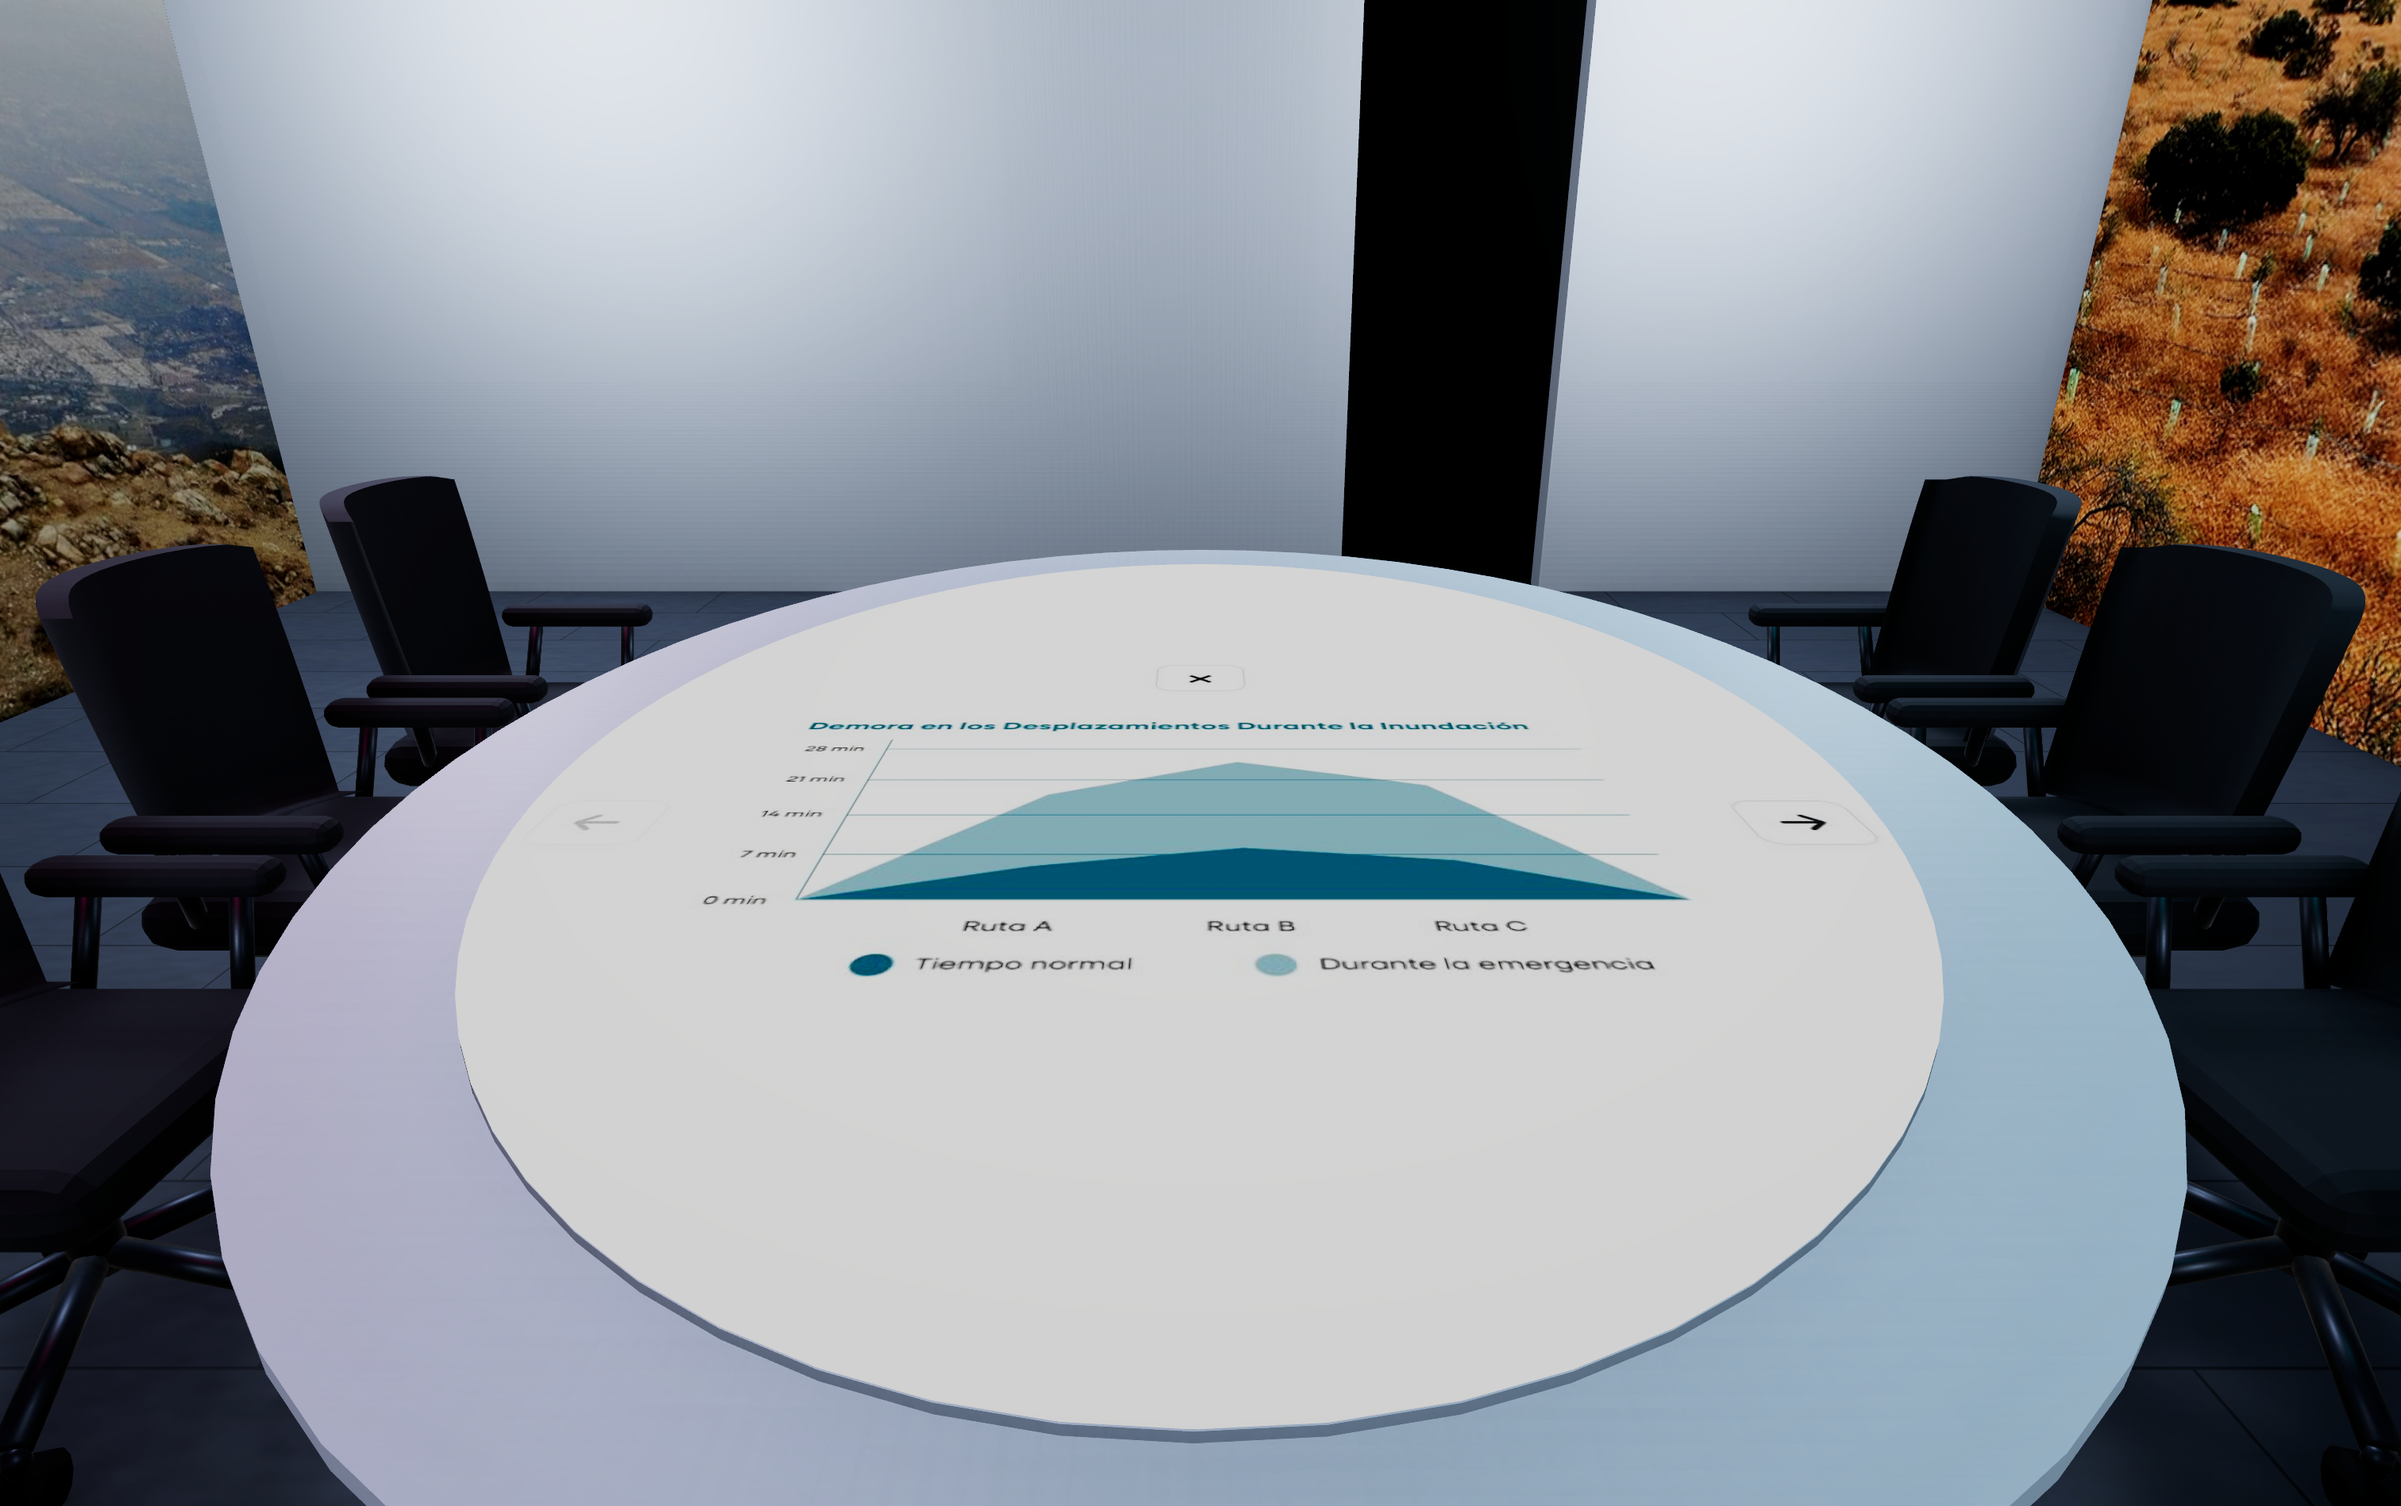
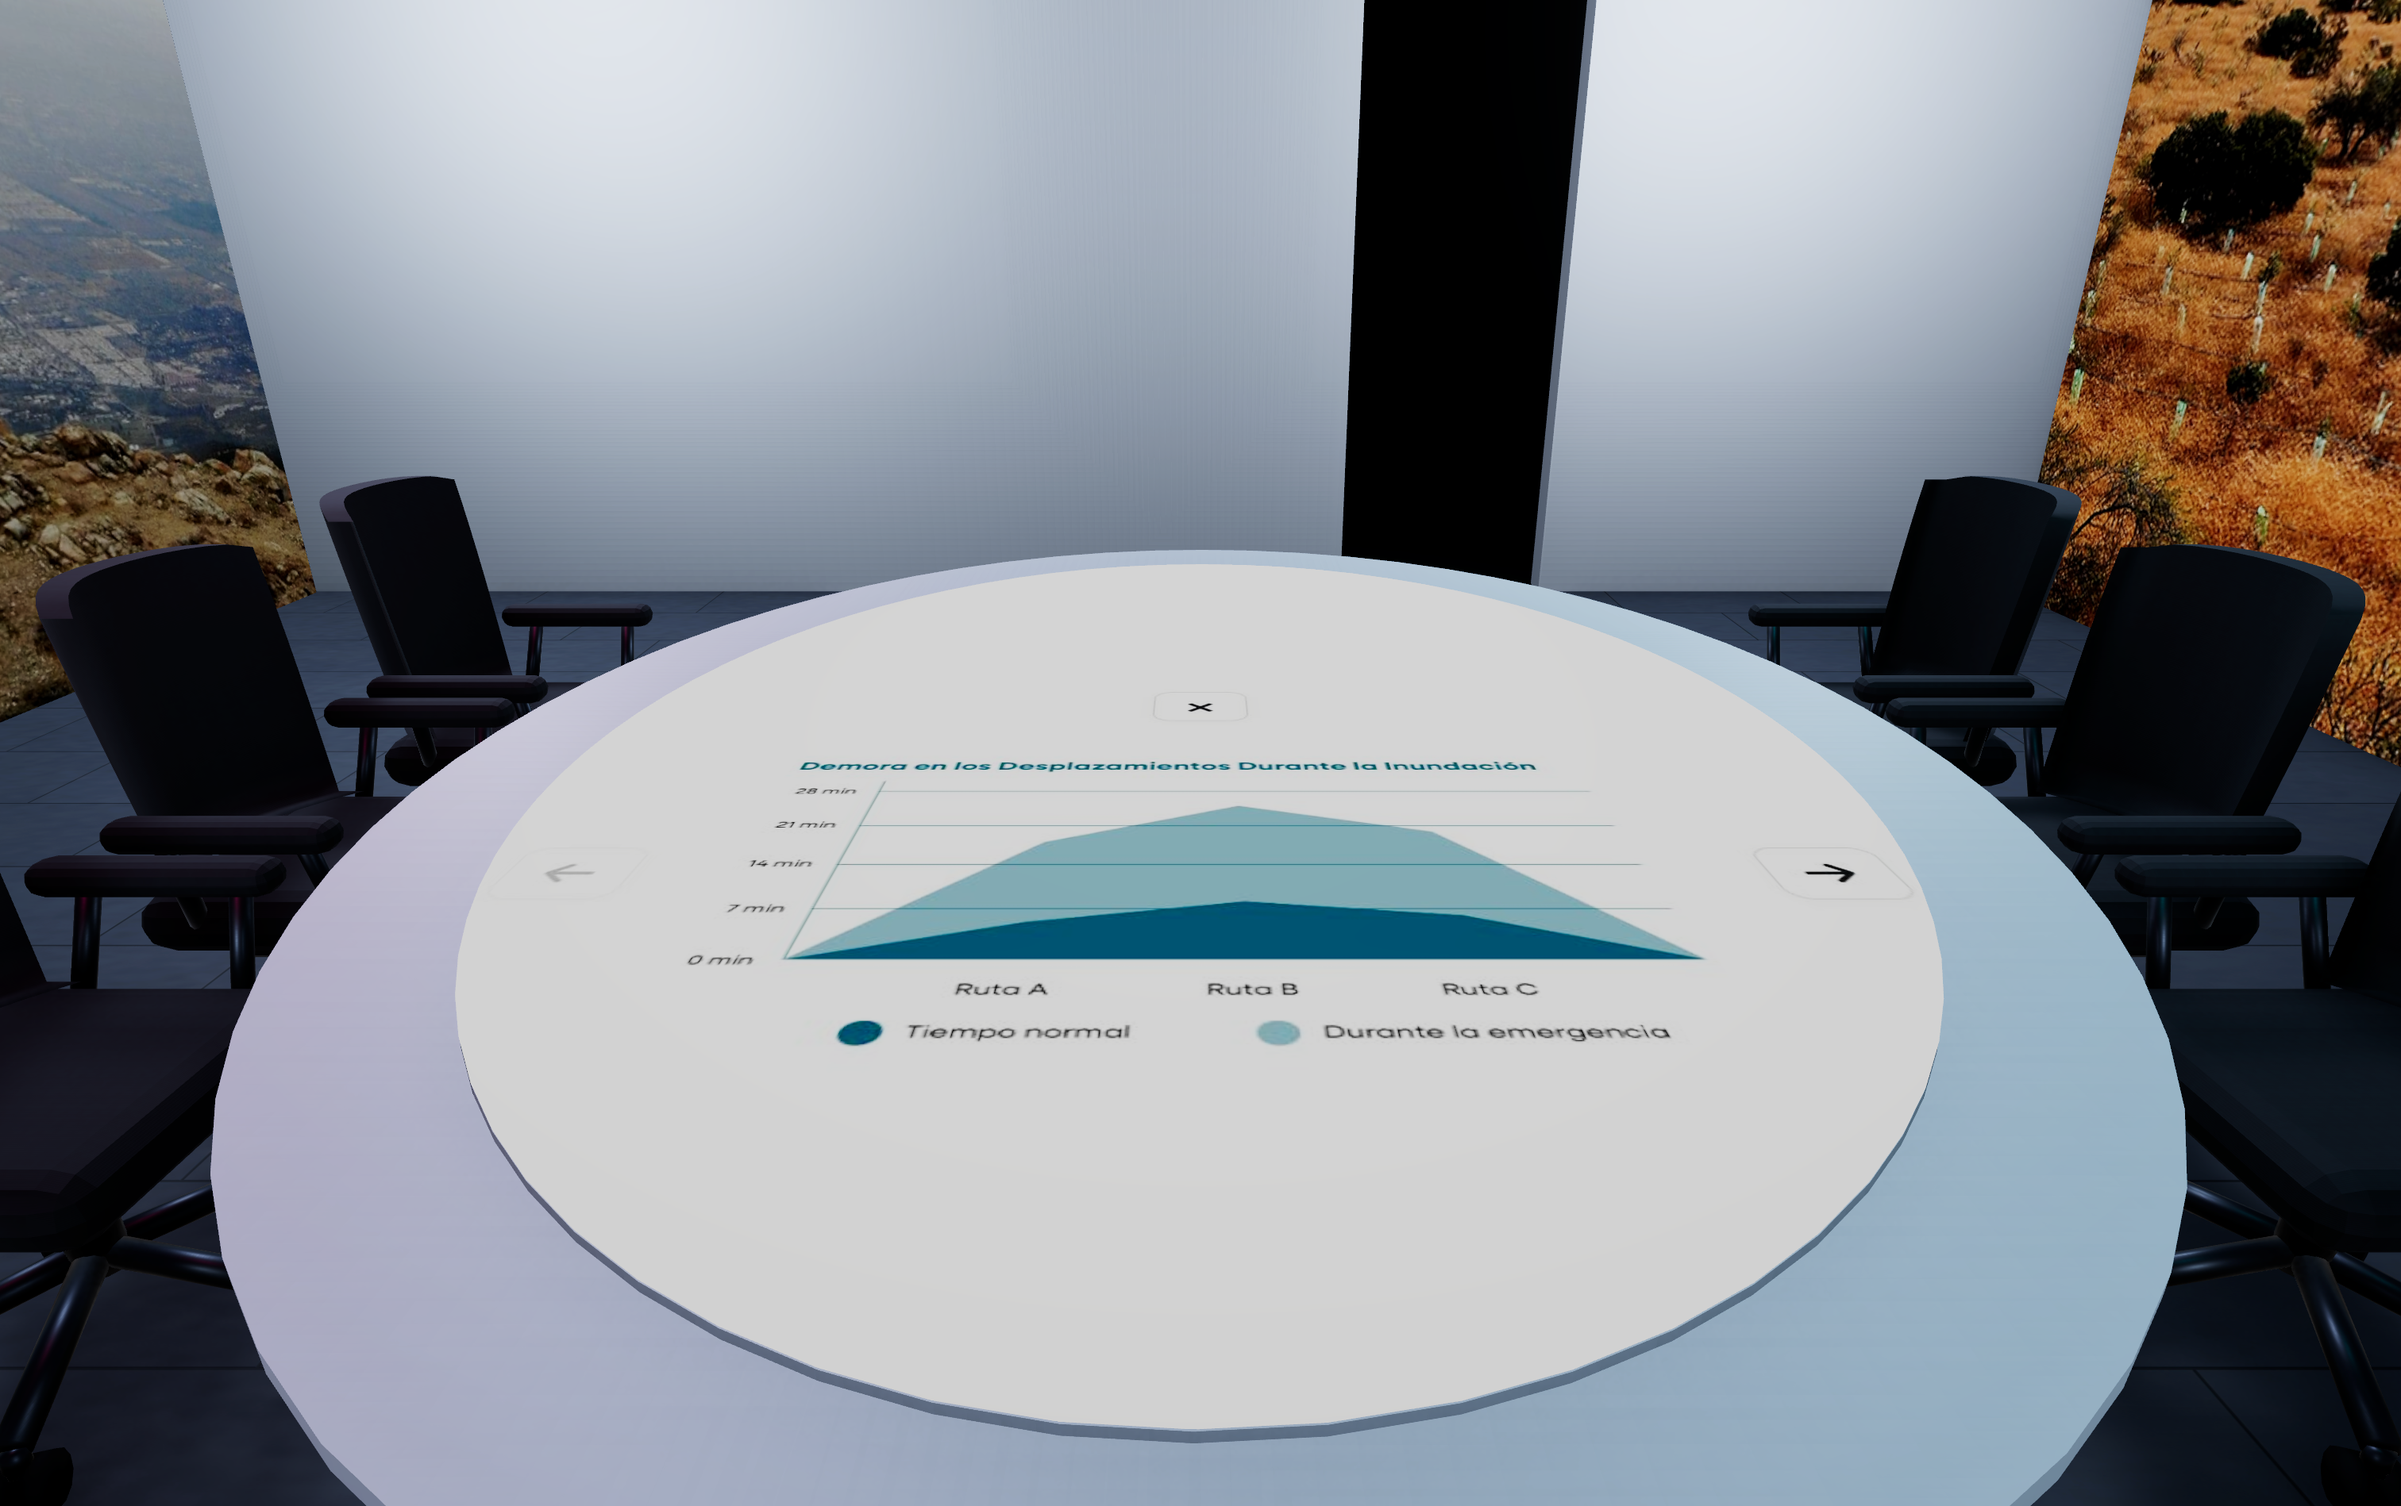
Baja la leyenda al borde cercano y aproxima los gráficos a la silla

Changed region(s): [[0.8393, 0.0, 1.0, 0.5285], [0.3108, 0.4663, 0.7149, 0.715], [0.0, 0.2176, 0.1243, 0.4663]]

diff --git a/mapaGestualMLR/src/twin-projection.css b/mapaGestualMLR/src/twin-projection.css
@@ -10,13 +10,13 @@
 .twin-projection .boundary-attribution{bottom:13%;left:16%;right:16%;text-align:center}
 
 /* Everything essential stays inside the oval table's safe central area. */
-.twin-projection .map-category-legend{left:50%;bottom:17%;width:29%;gap:3px}
+.twin-projection .map-category-legend{left:50%;bottom:4%;width:29%;gap:3px}
 .twin-projection .map-category-legend-row{font-size:9px;line-height:1.25;padding:4px 19px 4px 9px}
 /* The principal chair is beside the bottom of the captured texture. Keep the
    full page in the near half of the table, with controls outside its sides. */
-.twin-projection .content-stage{inset:40% 12% 20%}
-.twin-projection .content-control{top:60%;width:60px;height:54px;font-size:32px}
-.twin-projection #content-previous{left:6.8%}
-.twin-projection #content-next{left:93.2%}
-.twin-projection #content-close{left:50%;top:35.5%}
+.twin-projection .content-stage{inset:46% 14% 14%}
+.twin-projection .content-control{top:66%;width:60px;height:54px;font-size:32px}
+.twin-projection #content-previous{left:8.4%}
+.twin-projection #content-next{left:91.6%}
+.twin-projection #content-close{left:50%;top:41.5%}
 .twin-projection.content-open .map-tools{top:25%;right:20%}

diff --git a/digitalTwinMLR/Unity/Assets/MLR/Editor/TwinProject.cs b/digitalTwinMLR/Unity/Assets/MLR/Editor/TwinProject.cs
@@ -418,7 +418,7 @@ namespace LaReina.DigitalTwin.Editor
         {
             PlayerSettings.companyName="MLR";PlayerSettings.productName="Sala La Reina";
             PlayerSettings.macOS.cameraUsageDescription=CameraUsageDescription;
-            PlayerSettings.bundleVersion="0.9.1";PlayerSettings.Android.bundleVersionCode=8;
+            PlayerSettings.bundleVersion="0.9.2";PlayerSettings.Android.bundleVersionCode=8;
             PlayerSettings.SetApplicationIdentifier(NamedBuildTarget.Standalone,"cl.mlr.sala.lareina");
             PlayerSettings.SetApplicationIdentifier(NamedBuildTarget.Android,"cl.mlr.sala.lareina");
             PlayerSettings.defaultScreenWidth=1600;PlayerSettings.defaultScreenHeight=900;

diff --git a/digitalTwinMLR/README.md b/digitalTwinMLR/README.md
@@ -1,6 +1,6 @@
 # Recorrido virtual de la sala
 
-**Avance:** 23 de octubre de 2026 · versión 0.9.1<br>
+**Avance:** 23 de octubre de 2026 · versión 0.9.2<br>
 **Equipo:** Emilio Abarca · Emilia Armstrong · Victoria Aracena
 
 [Volver al proyecto](https://github.com/eeminionn/labTecnologiasEmergentes)
@@ -13,7 +13,7 @@ Sumamos a la mesa la nueva secuencia del mapa gestual. Desde la silla principal,
 
 La X vuelve al mapa y las flechas recorren los gráficos, manteniendo el índice **1,5 segundos**. Conservamos el zoom con dos OK y el arrastre con un puño. También incorporamos los pines originales, separados y acompañados de su leyenda de colores; el primero pulsa suavemente y los otros dos temas siguen en preparación. Este avance corresponde a la versión de computador.
 
-Al verlo desde la silla, los gráficos quedaban demasiado lejos. Los acercamos al puesto principal y dejamos las flechas a los lados, con la X centrada encima. También achicamos y centramos la leyenda. Los créditos del mapa quedaron en el menú inicial y en ajustes para despejar la mesa.
+Al verlo desde la silla, los gráficos quedaban demasiado lejos. Los acercamos al puesto principal y dejamos las flechas a los lados, con la X centrada encima. También achicamos y centramos la leyenda; después de probarla otra vez, la bajamos hasta dejar la viñeta rosada casi junto al borde cercano y acercamos un poco más los gráficos. Los créditos del mapa quedaron en el menú inicial y en ajustes para despejar la mesa.
 
 <table>
   <tr>

diff --git a/mapaGestualMLR/README.md b/mapaGestualMLR/README.md
@@ -1,7 +1,7 @@
 # Bitácora - Mapa Gestual MLR
 
 **Inicio:** 5 de octubre de 2026<br>
-**Última actualización:** 23 de octubre de 2026 · versión 0.2.1<br>
+**Última actualización:** 23 de octubre de 2026 · versión 0.2.2<br>
 **Equipo:** Emilio Abarca · Emilia Armstrong · Victoria Aracena
 
 [Volver al README principal](../README.md) · [Revisar Etapa 2](../Etapa-2/Bitacora/README.md)
